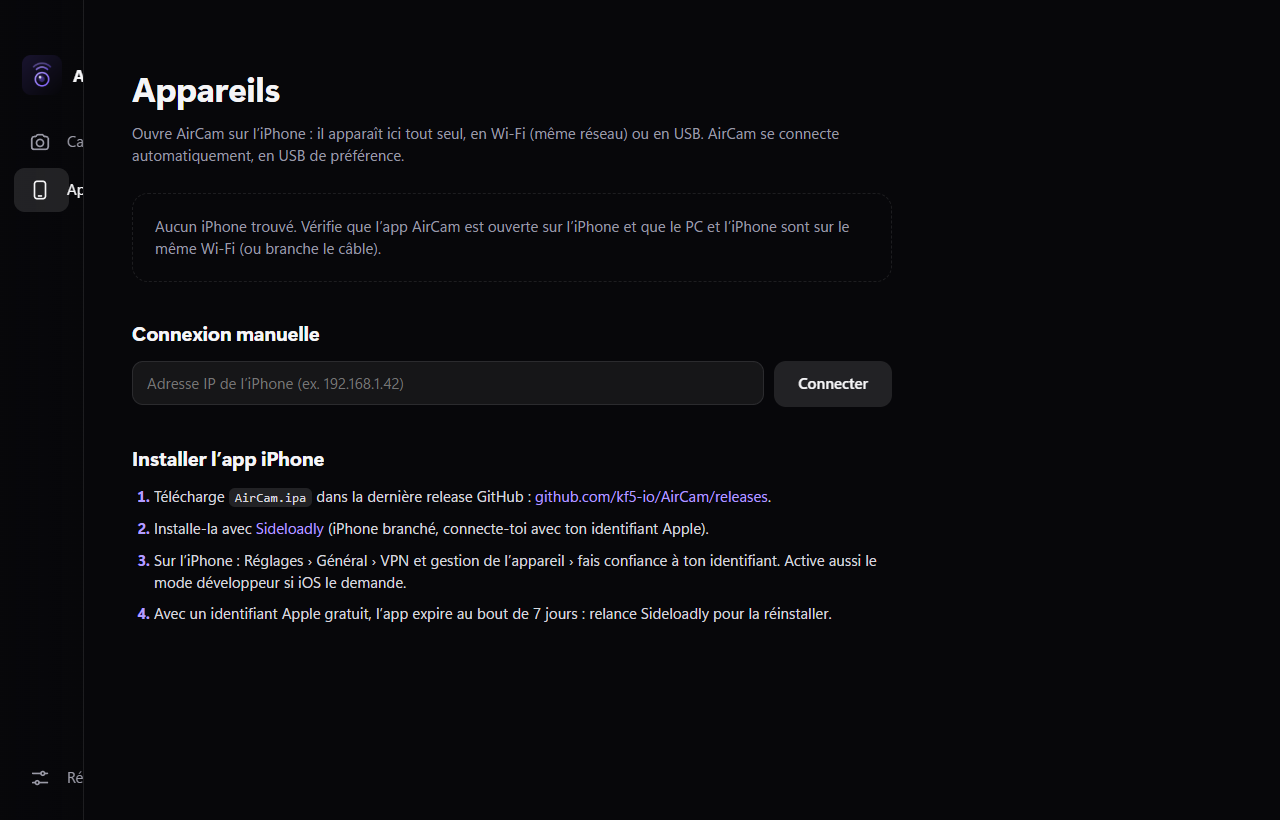
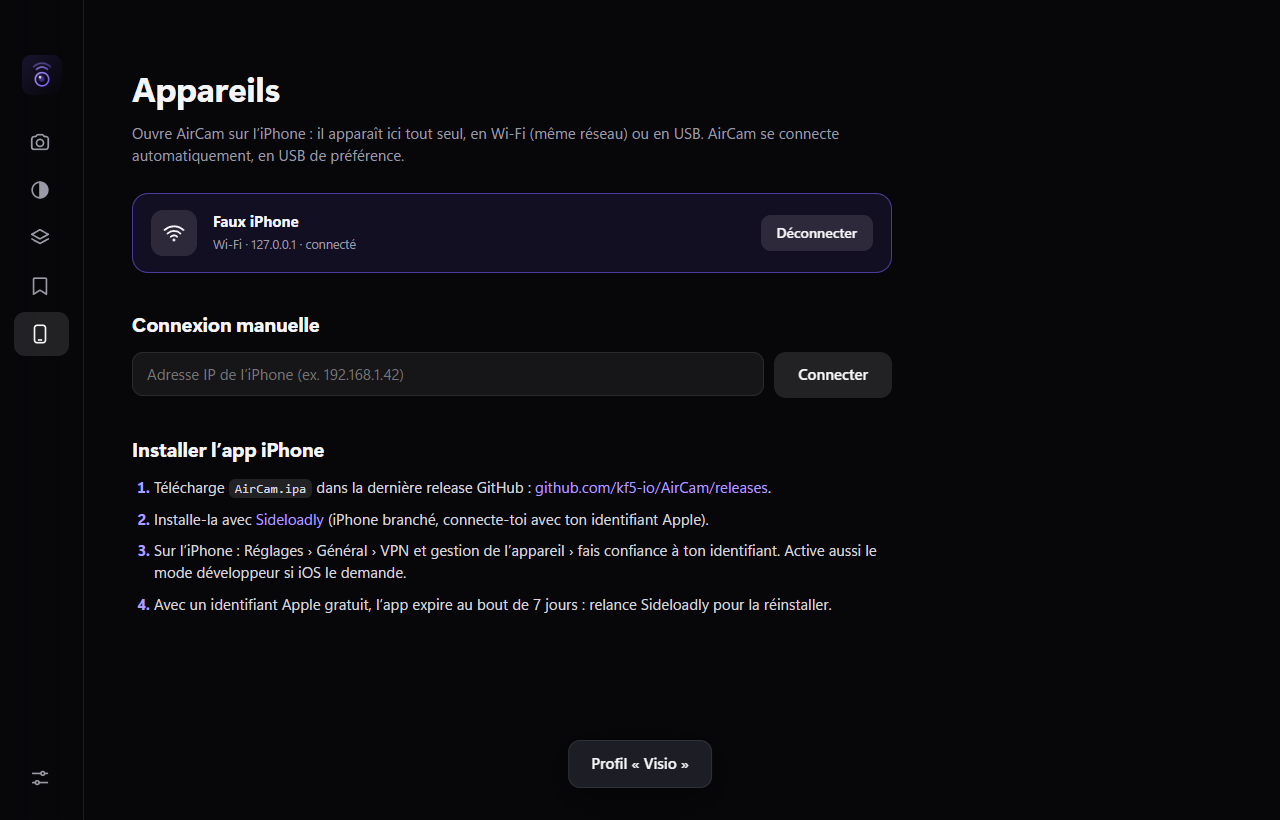
docs: README refresh (all pages, screenshots, install & usage)

diff --git a/README.md b/README.md
@@ -6,7 +6,11 @@
 
 <p align="center">
   La caméra de ton <b>iPhone</b> comme webcam sur <b>Windows</b>, en Wi-Fi ou en USB.<br>
-  Une webcam virtuelle « AirCam » utilisable dans Zoom, Teams, Discord, OBS, Meet… façon Camo Studio / iVCam, open source et gratuit.
+  Une webcam virtuelle « AirCam » pour Zoom, Teams, Discord, OBS, Meet… façon Camo Studio / iVCam, open source et gratuite.
+</p>
+
+<p align="center">
+  <a href="https://github.com/kf5-io/AirCam/releases/latest"><b>Télécharger</b></a> · <a href="#installation">Installation</a> · <a href="#développement">Développement</a>
 </p>
 
 ![Caméra](docs/camera.png)
@@ -17,19 +21,18 @@
 - Wi-Fi : l'iPhone est trouvé automatiquement sur le réseau local (Bonjour), sans saisir d'adresse
 - USB : plus stable, moins de latence, utilisé en priorité dès que le câble est branché
 - Connexion manuelle par adresse IP si la découverte automatique est bloquée
-- Flux chiffré de bout en bout (échange de clés X25519 éphémères, AES-256-GCM), sans mot de passe
+- Flux chiffré (échange de clés X25519 éphémères, AES-256-GCM), sans mot de passe
 - Reconnexion automatique (app iPhone relancée, câble rebranché, Wi-Fi qui saute)
 
-**Image**
+**Caméra**
 - Caméra avant, arrière, ultra grand-angle et téléobjectif (selon l'iPhone)
-- 720p, 1080p ou 4K, en 30 ou 60 i/s
-- Zoom, exposition, mise au point verrouillable
-- Miroir et retournement à 180° (iPhone posé dans l'autre sens)
+- 720p, 1080p ou 4K, en 30, 60 ou 120 i/s (les fréquences que ton iPhone ne sait pas faire sont grisées)
 - Format vertical 9:16 pour les lives TikTok / Instagram (l'iPhone filme en portrait, pleine résolution)
 - Cadrage automatique façon Center Stage : l'iPhone détecte les visages, le PC recadre en douceur
 - Clic sur l'aperçu : mise au point et exposition à cet endroit
-- 30, 60 ou 120 i/s selon l'iPhone
+- Zoom, exposition, mise au point verrouillable, miroir, retournement à 180°
 - Lampe torche de l'iPhone comme lumière d'appoint
+- Arrière-plan flou ou remplacé par une image, calculé sur l'iPhone (Vision) : zéro charge pour le PC
 
 **Ajustements et LUT**
 - Balance des blancs automatique ou manuelle (température, teinte), réglée directement sur le capteur de l'iPhone
@@ -38,42 +41,39 @@
 - **Apple Log** (iPhone 15 Pro et plus) : plus de dynamique, conversion Apple Log → Rec.709 intégrée ou ta propre LUT log (The One LUT…)
 - Rendu sur le GPU du PC (WebGL2), aperçu instantané
 
-**Arrière-plan**
-- Flou ou remplacement par une image, calculé sur l'iPhone (Vision, segmentation de personne) : zéro charge pour le PC
-
 **Calques**
 - Logos, filigranes (PNG transparents) et textes par-dessus la caméra, visibles dans toutes les applications
 - Déplacement à la souris directement sur l'aperçu, taille à la molette, positions rapides (coins, centre)
-- Opacité, couleur et fond du texte, visibilité, ordre des calques ; tout est mémorisé
+- Opacité, couleur et fond du texte, visibilité, ordre des calques
 
 **Profils**
-- Caméra, ajustements, LUT et calques enregistrés ensemble (« Visio », « Stream »…), appliqués en un clic
+- Caméra, format, ajustements, LUT, arrière-plan et calques enregistrés ensemble (« Visio », « Stream », « TikTok »…)
+- Une carte par profil avec une miniature et le résumé des réglages, appliquée en un clic
 
 **Webcam virtuelle**
-- Apparaît sous le nom « AirCam » dans toutes les applications compatibles DirectShow
-- Sortie en 720p ou 1080p ; écran « En attente de l'iPhone » quand le téléphone n'est pas connecté
+- Apparaît sous le nom « AirCam » dans les applications de visio et de streaming (DirectShow)
+- Sortie 720p ou 1080p, paysage ou vertical ; écran « En attente de l'iPhone » quand le téléphone n'est pas là
 - Ne consomme rien tant qu'aucune application n'utilise la caméra
 
 **App iPhone**
 - Aperçu, état de la connexion, « Écran noir » pour économiser la batterie pendant un appel
 - Tous les réglages se font depuis le PC
 
-| Appareils |
-|---|
-| ![Appareils](docs/appareils.png) |
+| Ajustements et LUT | Calques |
+|---|---|
+| ![Ajustements](docs/ajustements.png) | ![Calques](docs/calques.png) |
+
+| Profils | Appareils |
+|---|---|
+| ![Profils](docs/profils.png) | ![Appareils](docs/appareils.png) |
 
 ## Installation
 
 ### Sur le PC
 
-Télécharge `AirCam-Setup-<version>.exe` dans les [releases](https://github.com/kf5-io/AirCam/releases), ou construis-le :
-
-```sh
-npm install
-npm run dist
-```
-
-Résultat : `dist/AirCam-Setup-<version>.exe`. L'installeur demande les droits administrateur pour enregistrer la webcam virtuelle, et crée les raccourcis Bureau et menu Démarrer.
+1. Télécharge `AirCam-Setup-<version>.exe` dans la [dernière release](https://github.com/kf5-io/AirCam/releases/latest)
+2. Lance-le : il demande les droits administrateur pour enregistrer la webcam virtuelle, et crée les raccourcis Bureau et menu Démarrer
+3. Autorise AirCam dans le pare-feu Windows si on te le demande (nécessaire pour trouver l'iPhone en Wi-Fi)
 
 L'installeur n'est pas signé : Windows SmartScreen affiche un avertissement au premier lancement (« Informations complémentaires » › « Exécuter quand même »).
 
@@ -81,60 +81,67 @@ Pour l'USB, il faut le service Apple : installe **Apple Devices** (Microsoft Sto
 
 ### Sur l'iPhone
 
-L'app iPhone n'est pas sur l'App Store. Elle se compile sur GitHub Actions (pas besoin de Mac) et s'installe avec un identifiant Apple gratuit :
+L'app iPhone n'est pas sur l'App Store. Elle est compilée par GitHub Actions (pas besoin de Mac) et s'installe avec un identifiant Apple gratuit :
 
-1. Télécharge `AirCam.ipa` dans les [releases](https://github.com/kf5-io/AirCam/releases) (ou dans les artefacts du workflow **ios**)
+1. Télécharge `AirCam.ipa` dans la [dernière release](https://github.com/kf5-io/AirCam/releases/latest)
 2. Installe-la avec [Sideloadly](https://sideloadly.io), iPhone branché, en te connectant avec ton identifiant Apple
-3. Sur l'iPhone : Réglages › Général › VPN et gestion de l'appareil › fais confiance à ton identifiant. Active le mode développeur si iOS le demande
+3. Sur l'iPhone : Réglages › Général › VPN et gestion de l'appareil › fais confiance à ton identifiant. Active le mode développeur si iOS le demande (Réglages › Confidentialité et sécurité)
 4. Ouvre AirCam, autorise la caméra et le réseau local
 
 > Avec un identifiant Apple gratuit, l'app expire au bout de 7 jours : relance Sideloadly pour la réinstaller. Un compte développeur payant la signe pour 1 an.
 
-Garde l'app ouverte au premier plan : iOS coupe la caméra des apps en arrière-plan.
+Garde l'app ouverte au premier plan : iOS coupe la caméra des apps en arrière-plan. iOS 16 minimum (iOS 17 pour l'Apple Log).
+
+### Utilisation
+
+Ouvre AirCam sur le PC et sur l'iPhone : la connexion est automatique. Dans Zoom, Teams, Discord, OBS…, choisis la caméra **AirCam**. Les applications déjà ouvertes doivent être relancées pour voir une caméra fraîchement installée ou un changement de format.
 
 ## Développement
 
 ```sh
 npm install
-npm run get-softcam   # télécharge la DLL de la webcam virtuelle dans vendor/softcam (une fois)
+npm run get-softcam   # télécharge les webcams virtuelles compilées par le CI dans vendor/ (une fois)
 npm start             # lance l'app
-npm test              # tests unitaires (protocole, parsing H.264, conversion d'image, LUT, Apple Log)
+npm test              # tests unitaires (protocole, chiffrement, H.264, LUT, Apple Log, cadrage)
+npm run dist          # installeur Windows dans dist/
 ```
 
 Prérequis : Node.js 20+, Windows 10/11. En développement, clique sur **Installer** (Caméra ou Réglages) pour enregistrer la webcam virtuelle : Windows demande l'autorisation administrateur une fois.
 
-L'app iPhone (`ios/`) se génère avec [XcodeGen](https://github.com/yonaskolb/XcodeGen) : `cd ios && xcodegen generate`, puis ouvre `AirCam.xcodeproj` sur un Mac. Sans Mac, chaque push sur `ios/` lance le workflow **ios**, qui produit l'IPA non signée.
+L'app iPhone (`ios/`) se génère avec [XcodeGen](https://github.com/yonaskolb/XcodeGen) : `cd ios && xcodegen generate`, puis ouvre `AirCam.xcodeproj` sur un Mac. Sans Mac, chaque push sur `ios/` lance le workflow **ios**, qui produit l'IPA non signée (et l'attache à la release pour un tag `v*`).
 
 ## Architecture
 
 ```
 src/
-  main.js              process principal : fenêtre, découverte Bonjour + USB, connexion à l'iPhone, installation de la webcam
-  preload.js           API exposée à l'interface + webcam virtuelle (softcam.dll via koffi)
+  main.js              process principal : fenêtre, découverte Bonjour + USB, connexion, LUT, profils, installation de la webcam
+  preload.js           API exposée à l'interface + sortie webcam virtuelle (softcam.dll via koffi)
   protocol.js          protocole réseau partagé avec l'iPhone
   secure.js            chiffrement du flux (X25519 + AES-256-GCM)
   usbmux.js            tunnel TCP vers l'iPhone par le câble (service Apple Mobile Device)
   renderer/
     index.html, app.js, style.css   l'interface (vanilla JS, sans framework, même design que KF Player)
-    video.js                         fonctions pures : SPS H.264, RGBA → BGR, LUT .cube, courbe Apple Log, looks
+    video.js                         fonctions pures : SPS H.264, LUT .cube, courbe Apple Log, looks, cadrage
     grade.js                         étalonnage GPU (WebGL2) : netteté, LUT 3D, ajustements
 ios/
   project.yml          projet XcodeGen
-  AirCam/              app SwiftUI : capture, segmentation, encodage, serveur
+  AirCam/              app SwiftUI : capture, visages, segmentation, encodage, serveur chiffré
+  Tests/main.swift     vérifie que le chiffrement iPhone et PC produisent les mêmes octets (CI)
+native/mfcam/          caméra Media Foundation pour Windows 11 (expérimentale, voir son README)
 build/installer.nsh    enregistrement de la webcam virtuelle à l'installation
-scripts/get-softcam.js télécharge la DLL compilée par le CI
-.github/workflows/     softcam.yml (DLL de la webcam), ios.yml (IPA)
+scripts/get-softcam.js télécharge les DLL compilées par le CI
+.github/workflows/     softcam.yml (webcam DirectShow), mfcam.yml (webcam Media Foundation), ios.yml (IPA)
 test/                  tests unitaires (node --test)
 ```
 
-**Le flux vidéo** : l'iPhone capture (AVFoundation), applique le flou ou le remplacement d'arrière-plan (Vision + Core Image), encode en H.264 matériel (VideoToolbox, sans B-frames pour la latence) et sert le flux en TCP sur le port 47800, annoncé en Bonjour (`_aircam._tcp`). En USB, le PC atteint le même port par usbmux. Le PC décode avec WebCodecs (décodage matériel de Chromium), dessine dans un canvas (aperçu, miroir, rotation) et pousse les images dans la webcam virtuelle.
+**Le flux vidéo** : l'iPhone capture (AVFoundation), applique le flou ou le remplacement d'arrière-plan (Vision + Core Image), encode en H.264 matériel (VideoToolbox, sans B-frames pour la latence) et sert le flux en TCP sur le port 47800, annoncé en Bonjour (`_aircam._tcp`). En USB, le PC atteint le même port par usbmux. Le PC décode avec WebCodecs (décodage matériel de Chromium), applique recadrage, étalonnage et calques dans un canvas, et pousse les images dans la webcam virtuelle.
 
-**Le chiffrement** (`src/secure.js`, `ios/AirCam/Secure.swift`) : à chaque connexion, le PC et l'iPhone échangent une clé X25519 éphémère, en dérivent deux clés AES-256 (HKDF-SHA256), puis chaque message voyage dans un enregistrement AES-256-GCM `[longueur u32][chiffré + tag]` avec un compteur par sens (anti-rejeu). Pas de mot de passe : le flux est illisible pour qui l'écoute, mais aucun appairage n'empêche un autre appareil du réseau de se connecter. Le CI vérifie que CryptoKit et Node produisent les mêmes octets.
+**Le chiffrement** (`src/secure.js`, `ios/AirCam/Secure.swift`) : à chaque connexion, le PC et l'iPhone échangent une clé X25519 éphémère, en dérivent deux clés AES-256 (HKDF-SHA256), puis chaque message voyage dans un enregistrement AES-256-GCM `[longueur u32][chiffré + tag]` avec un compteur par sens (anti-rejeu). Pas de mot de passe : le flux est illisible pour qui l'écoute, mais aucun appairage n'empêche un autre appareil du réseau de se connecter.
 
 **Le protocole** : messages `[type u8][longueur u32 big-endian][données]`. iPhone → PC : vidéo (`0x01`, Annex B avec SPS/PPS à chaque image clé), état JSON (`0x02`), visages détectés (`0x03`). PC → iPhone : réglages JSON (`0x10`), image d'arrière-plan (`0x11`), demande d'image clé (`0x12`), point de mise au point (`0x13`). En cas de congestion Wi-Fi, l'iPhone jette les images intermédiaires plutôt que d'accumuler du retard, puis renvoie une image clé.
 
-**La webcam virtuelle** est [softcam](https://github.com/tshino/softcam) (MIT), un filtre DirectShow. Le workflow **softcam** la compile et la renomme « AirCam » (nom, CLSID et mémoire partagée propres, pour ne pas entrer en conflit avec d'autres apps basées sur softcam). Elle est en 64 bits : les rares applications 32 bits ne la voient pas. Elle n'apparaît pas dans l'app Caméra de Windows ni dans les apps du Store (Media Foundation uniquement) : une caméra Media Foundation pour Windows 11 est en cours (`native/mfcam`, expérimentale, pas encore installée).
+**La webcam virtuelle** est [softcam](https://github.com/tshino/softcam) (MIT), un filtre DirectShow. Le workflow **softcam** la compile et la renomme « AirCam » (nom, CLSID et mémoire partagée propres, pour ne pas entrer en conflit avec d'autres apps basées sur softcam). Elle est en 64 bits : les rares applications 32 bits ne la voient pas. Elle n'apparaît pas dans l'app Caméra de Windows ni dans les apps du Store (Media Foundation uniquement) : une caméra Media Foundation pour Windows 11 est en cours (`native/mfcam`, expérimentale, pas installée).
 
 ## Licence
 
-[MIT](LICENSE). softcam : MIT, © tshino.
+[MIT](LICENSE). softcam : MIT, © tshino. VCamSample (base de la caméra Media Foundation) : MIT, © Simon Mourier.
